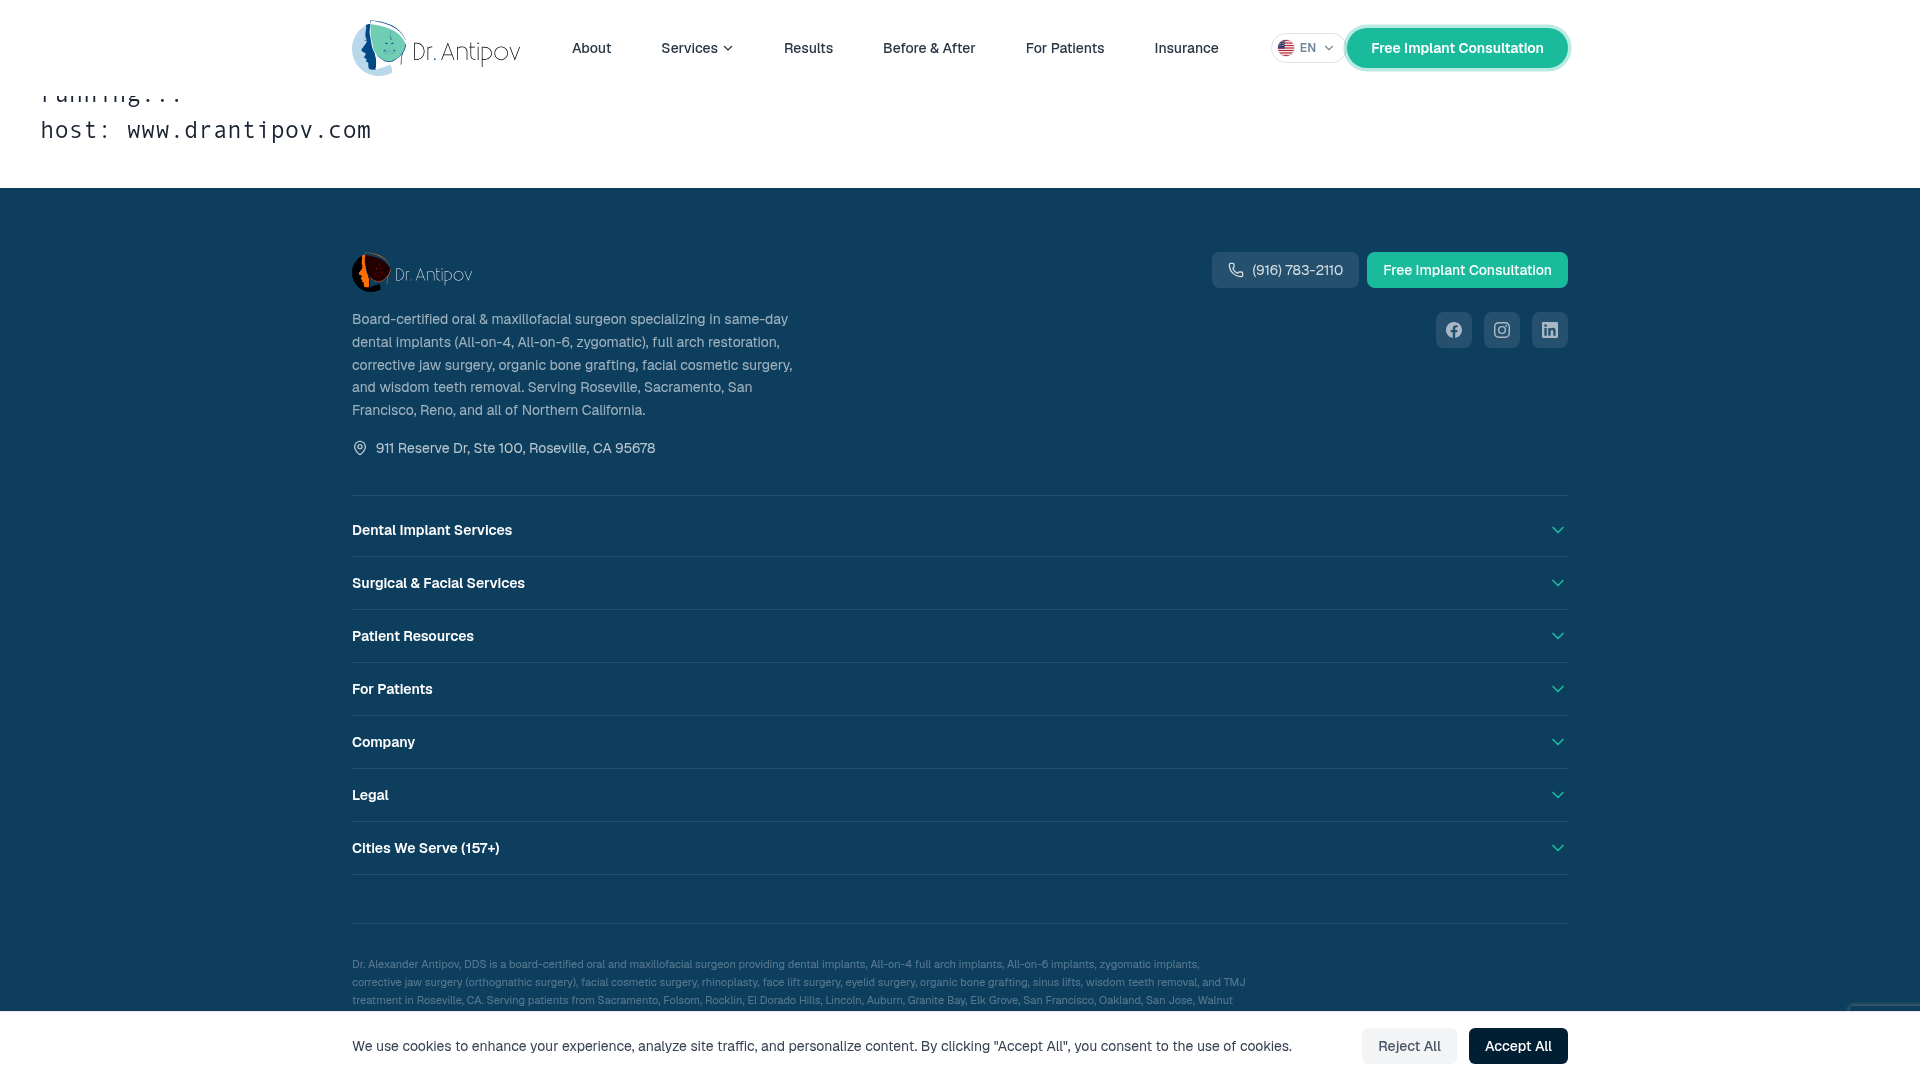
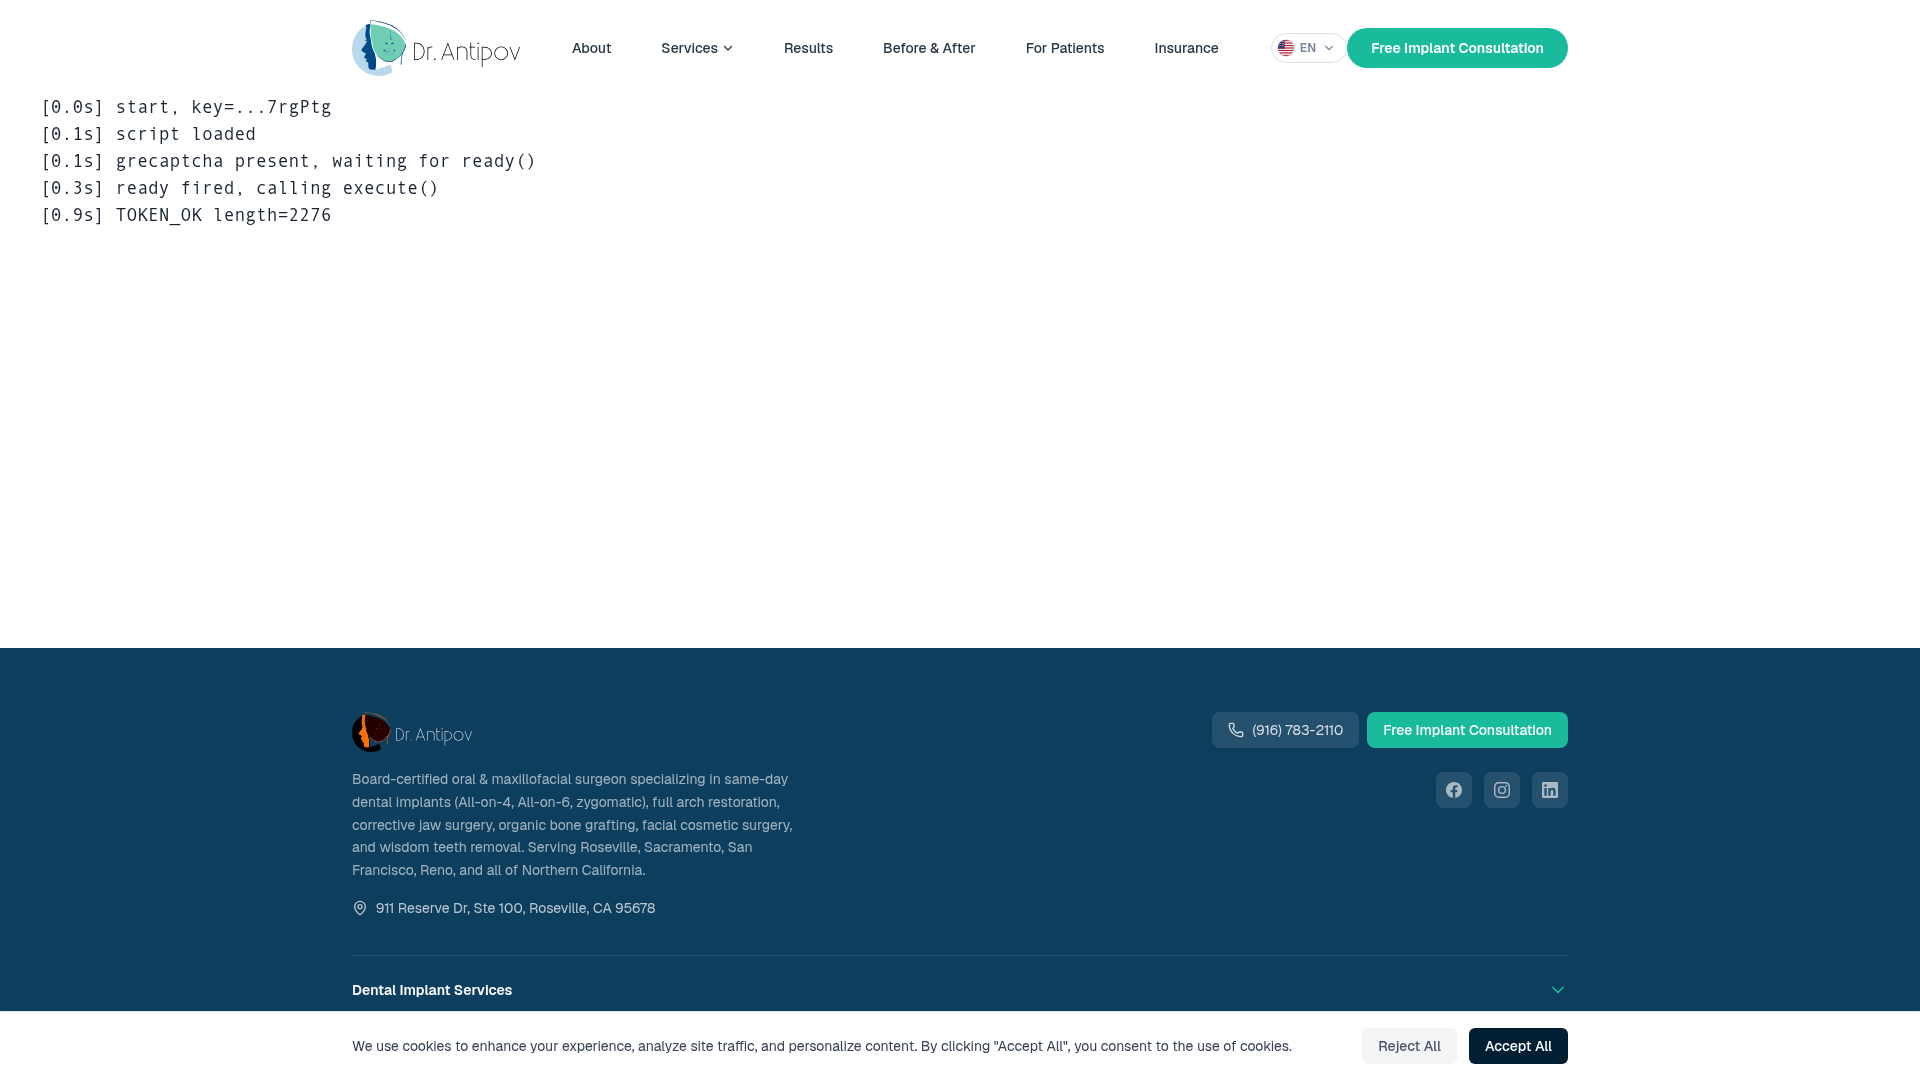
Fix lead submission by validating and normalizing phone numbers
Normalize phone numbers to plain digits in the API route and add a gated submission to the diagnostic page.

Replit-Commit-Author: Agent
Replit-Commit-Session-Id: 74786998-a0bb-4bb7-92b0-619cca750bc9
Replit-Commit-Checkpoint-Type: full_checkpoint
Replit-Commit-Event-Id: 0f2a85f3-832d-46f8-89db-a41b8af93b0c
Replit-Commit-Screenshot-Url: https://storage.googleapis.com/screenshot-production-us-central1/6efc2ed1-0688-4aa2-bf59-9787d0164ab4/74786998-a0bb-4bb7-92b0-619cca750bc9/N9UnXTn
Replit-Helium-Checkpoint-Created: true

diff --git a/src/app/recaptcha-test/page.tsx b/src/app/recaptcha-test/page.tsx
@@ -48,7 +48,46 @@ export default function RecaptchaTestPage() {
           window.clearTimeout(readyTimeout)
           log("ready fired, calling execute()")
           g.execute(SITE_KEY, { action: "form_submit" })
-            .then((token) => log(`TOKEN_OK length=${token?.length ?? 0}`))
+            .then(async (token) => {
+              log(`TOKEN_OK length=${token?.length ?? 0}`)
+              if (new URLSearchParams(window.location.search).get("run") !== "diag2026") {
+                log("skipping TEST submission (add ?run=diag2026 to run it)")
+                return
+              }
+              log("submitting TEST lead to /api/submit-consultation ...")
+              try {
+                const res = await fetch("/api/submit-consultation", {
+                  method: "POST",
+                  headers: { "Content-Type": "application/json" },
+                  body: JSON.stringify({
+                    firstName: "TEST",
+                    lastName: "DIAGNOSTIC-IGNORE",
+                    email: "diagnostic-test@drantipov.com",
+                    phone: "(916) 790-9693",
+                    dob: "1980-01-01",
+                    streetAddress: "911 Reserve Dr",
+                    city: "Roseville",
+                    state: "CA",
+                    zip: "95678",
+                    paymentOptions: "true",
+                    damagedTeeth: "false",
+                    missingTeeth: "true",
+                    gumDisease: "false",
+                    currentSmileNone: "false",
+                    currentSolutionsNone: "true",
+                    currentSolutionsImplants: "false",
+                    currentSolutionsBridgesCrowns: "false",
+                    currentSolutionsDentures: "false",
+                    recaptchaToken: token,
+                  }),
+                })
+                const text = await res.text()
+                log(`API status=${res.status}`)
+                log(`API body: ${text.slice(0, 500)}`)
+              } catch (e) {
+                log(`FAIL: submit fetch threw: ${String(e)}`)
+              }
+            })
             .catch((e) => log(`FAIL: execute rejected: ${String(e)}`))
         })
       } catch (e) {

diff --git a/src/app/api/submit-consultation/route.ts b/src/app/api/submit-consultation/route.ts
@@ -54,6 +54,21 @@ if (!body.firstName || !body.lastName || !body.email || !body.phone) {
       }
     }
 
+    // Upstream API rejects formatted phone numbers like "(916) 790-9693";
+    // it only accepts plain digits (e.g. "9167909693") or E.164 ("+1916...").
+    if (typeof sanitizedData["phone"] === "string") {
+      const digits = (sanitizedData["phone"] as string).replace(/\D/g, "")
+      const normalized =
+        digits.length === 11 && digits.startsWith("1") ? digits.slice(1) : digits
+      if (normalized.length !== 10) {
+        return NextResponse.json(
+          { success: false, message: "Please enter a valid 10-digit phone number." },
+          { status: 400 }
+        )
+      }
+      sanitizedData["phone"] = normalized
+    }
+
     sanitizedData["businessUnit"] = "Fusion Dental Implants"
     sanitizedData["business_unit"] = "Fusion Dental Implants"
     sanitizedData["landing_page"] = "Drantipov.com"
